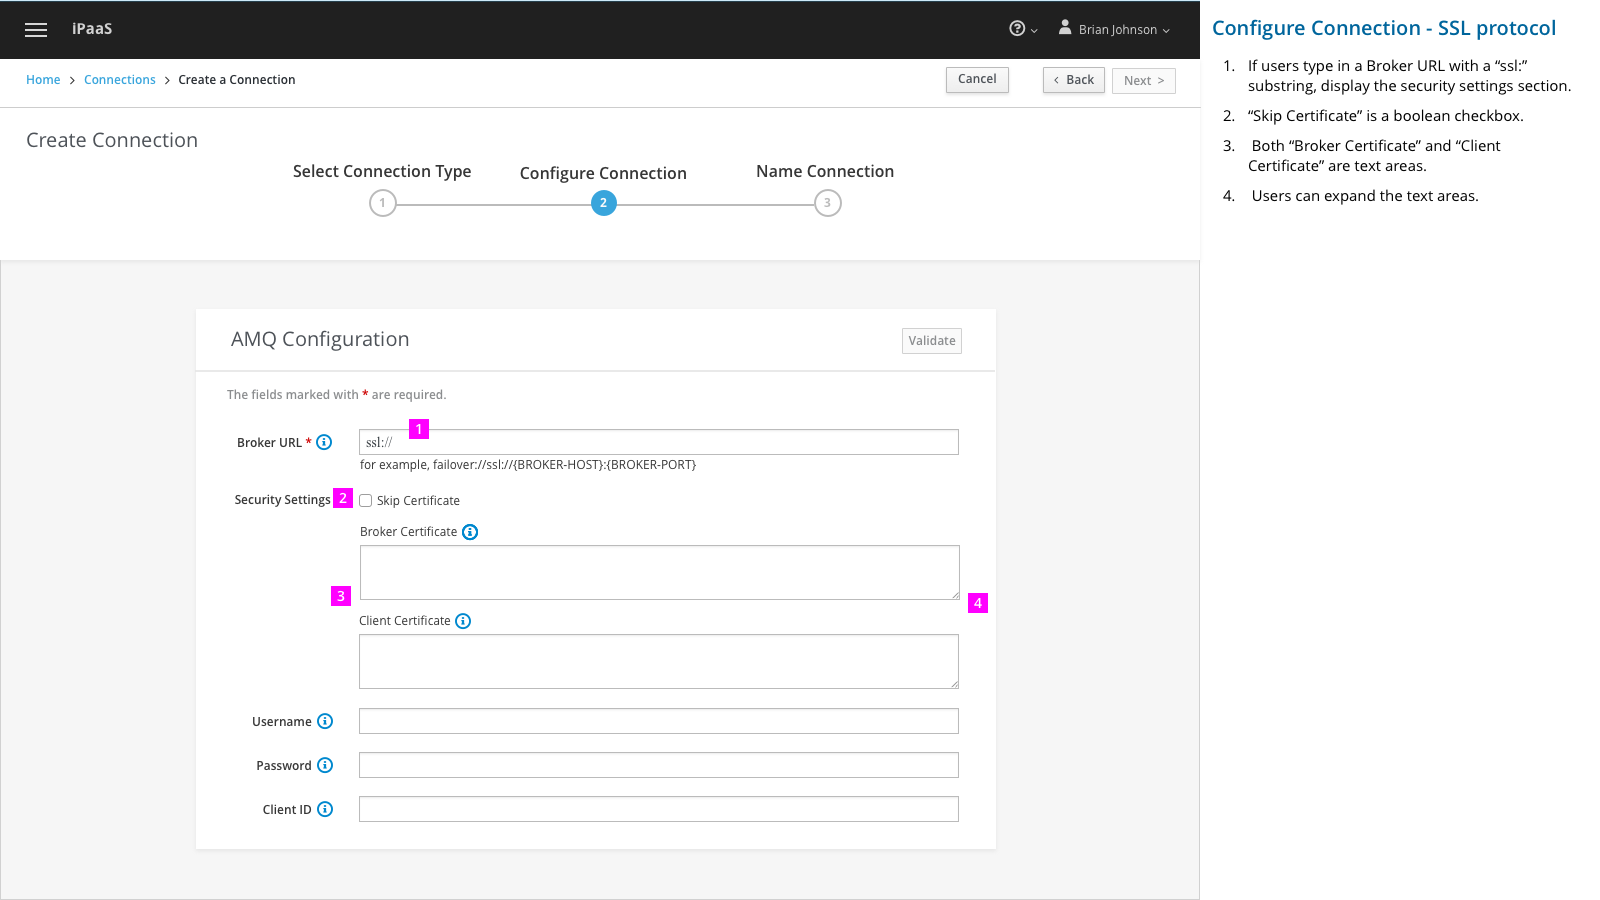
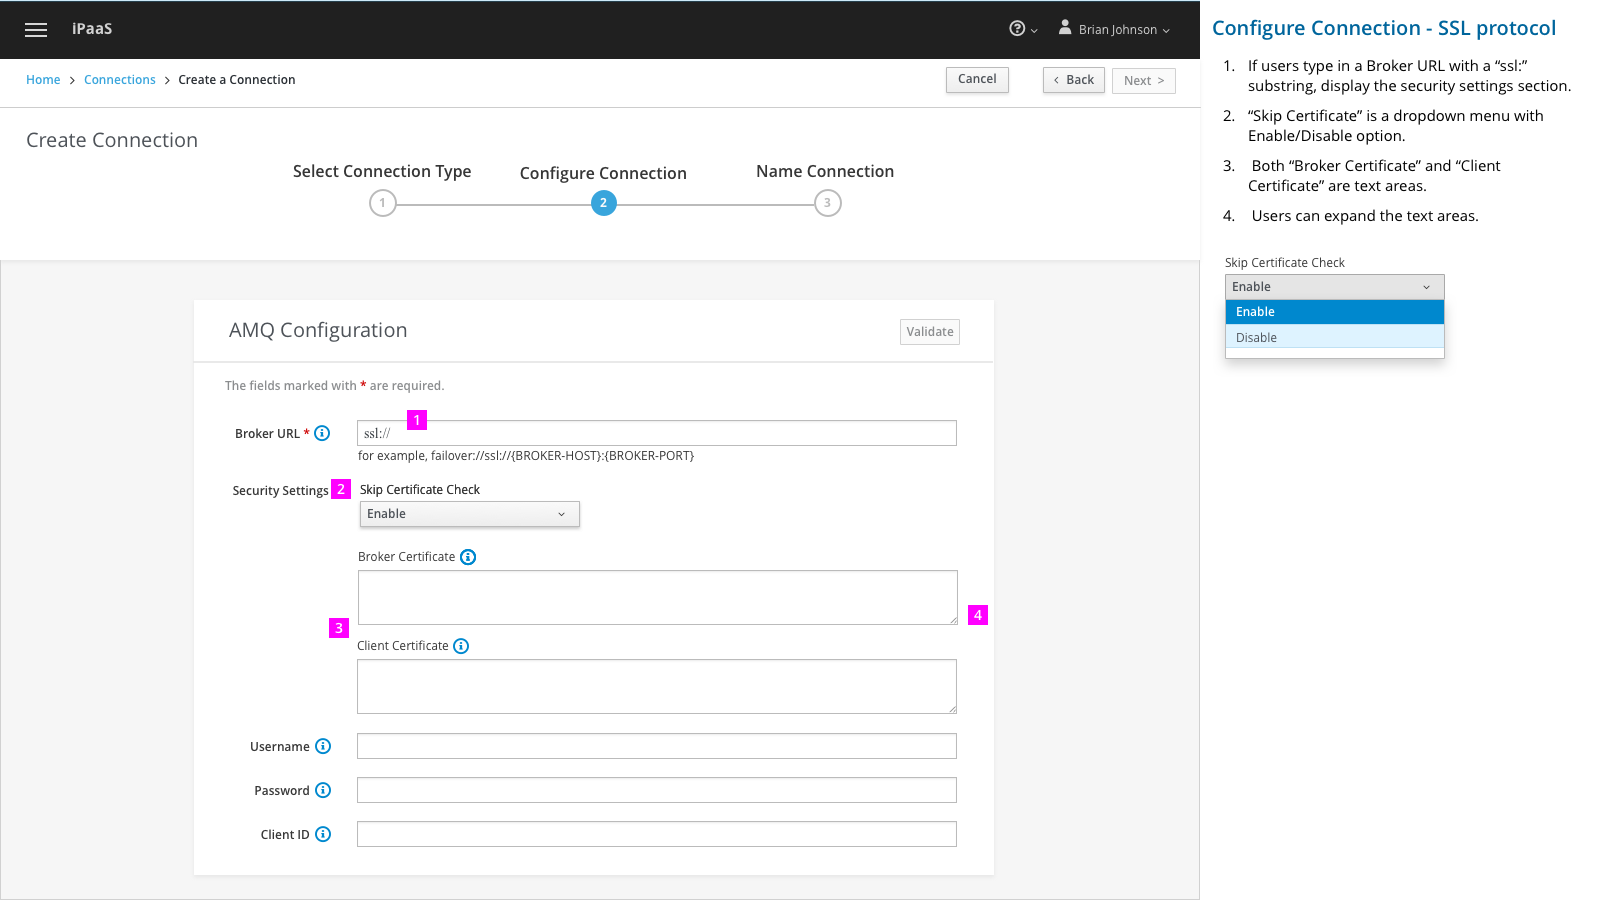
update Skip Certificate Check to dropdown

diff --git a/ux/designs/amq/amq.md b/ux/designs/amq/amq.md
@@ -30,7 +30,7 @@ This design covers the following workflows:
 
 1.	If users type in a Broker URL with a “ssl:” substring, display the security settings section.
 
-2.	“Skip Certificate” is a boolean checkbox.
+2.	“Skip Certificate Check” is a dropdown menu with Enable/Disable option.
 
 3.	 Both “Broker Certificate” and “Client Certificate” are text areas.
 
